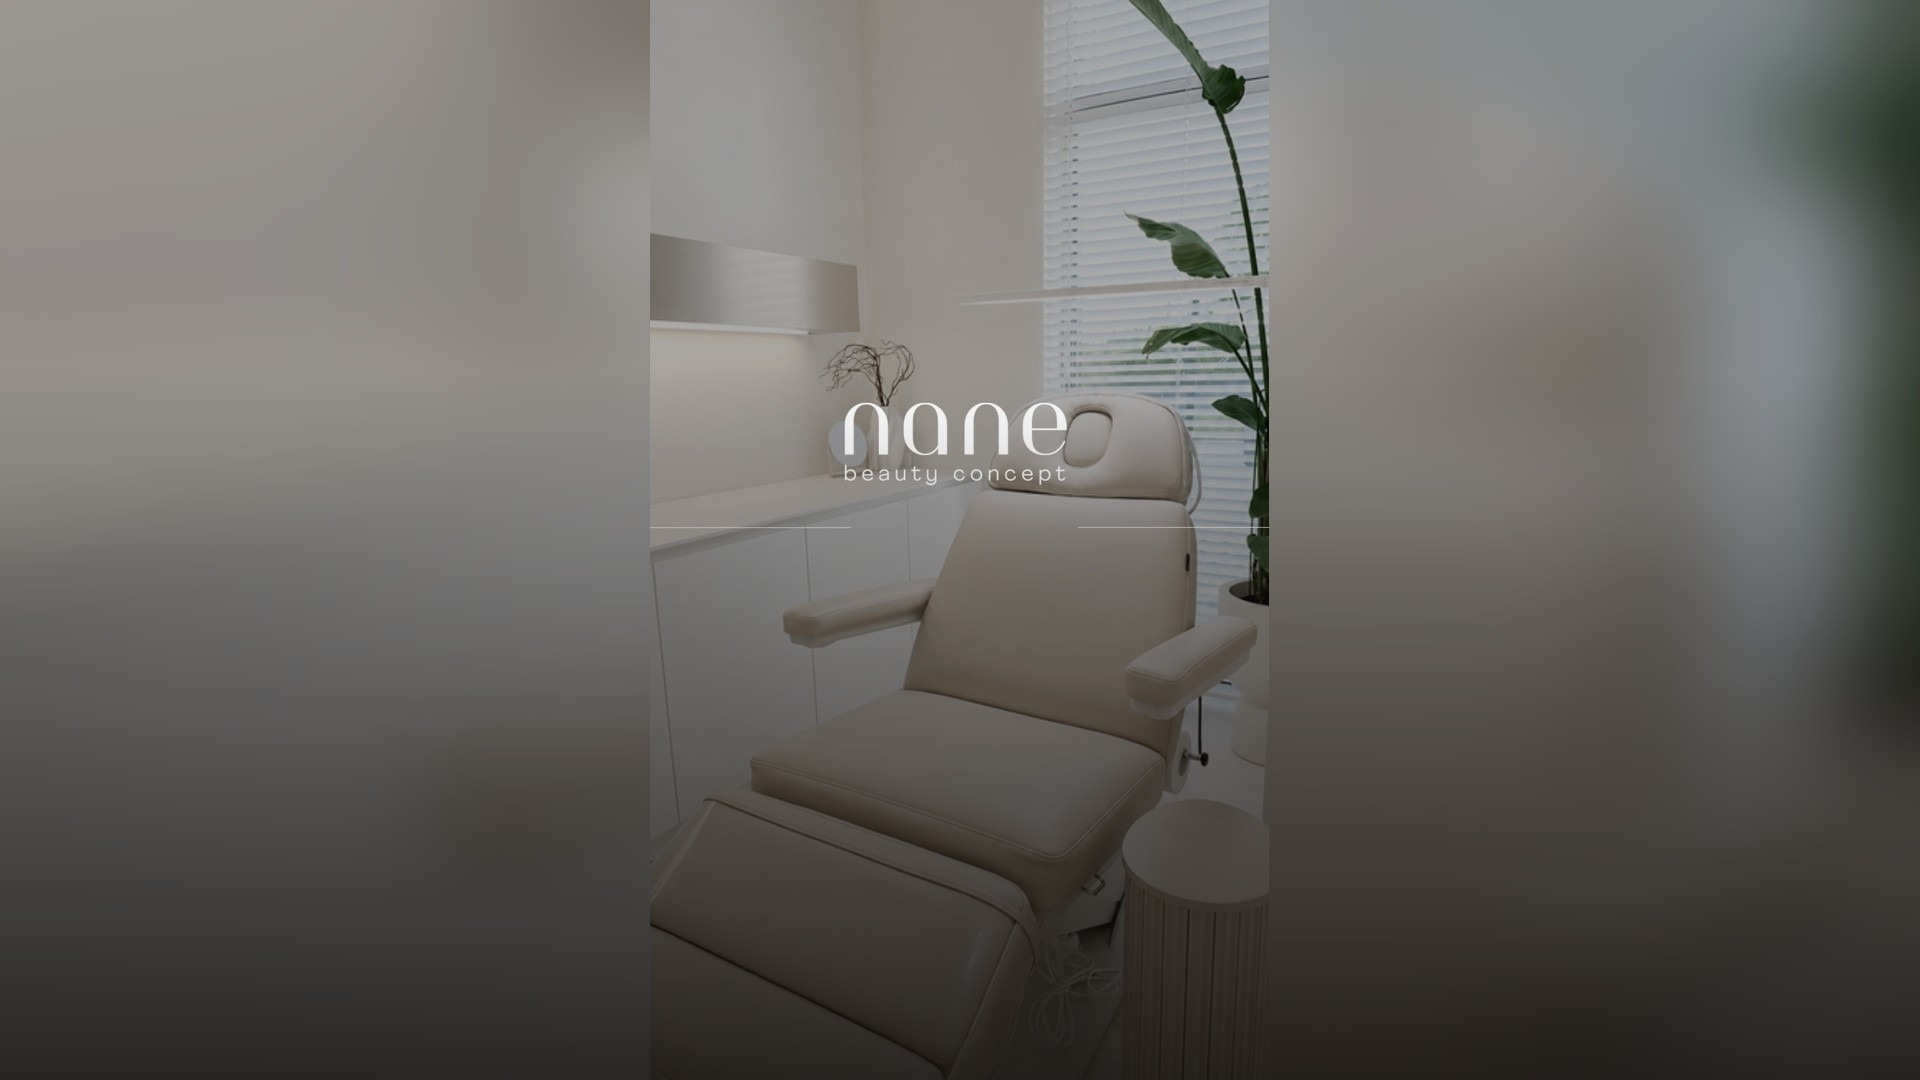
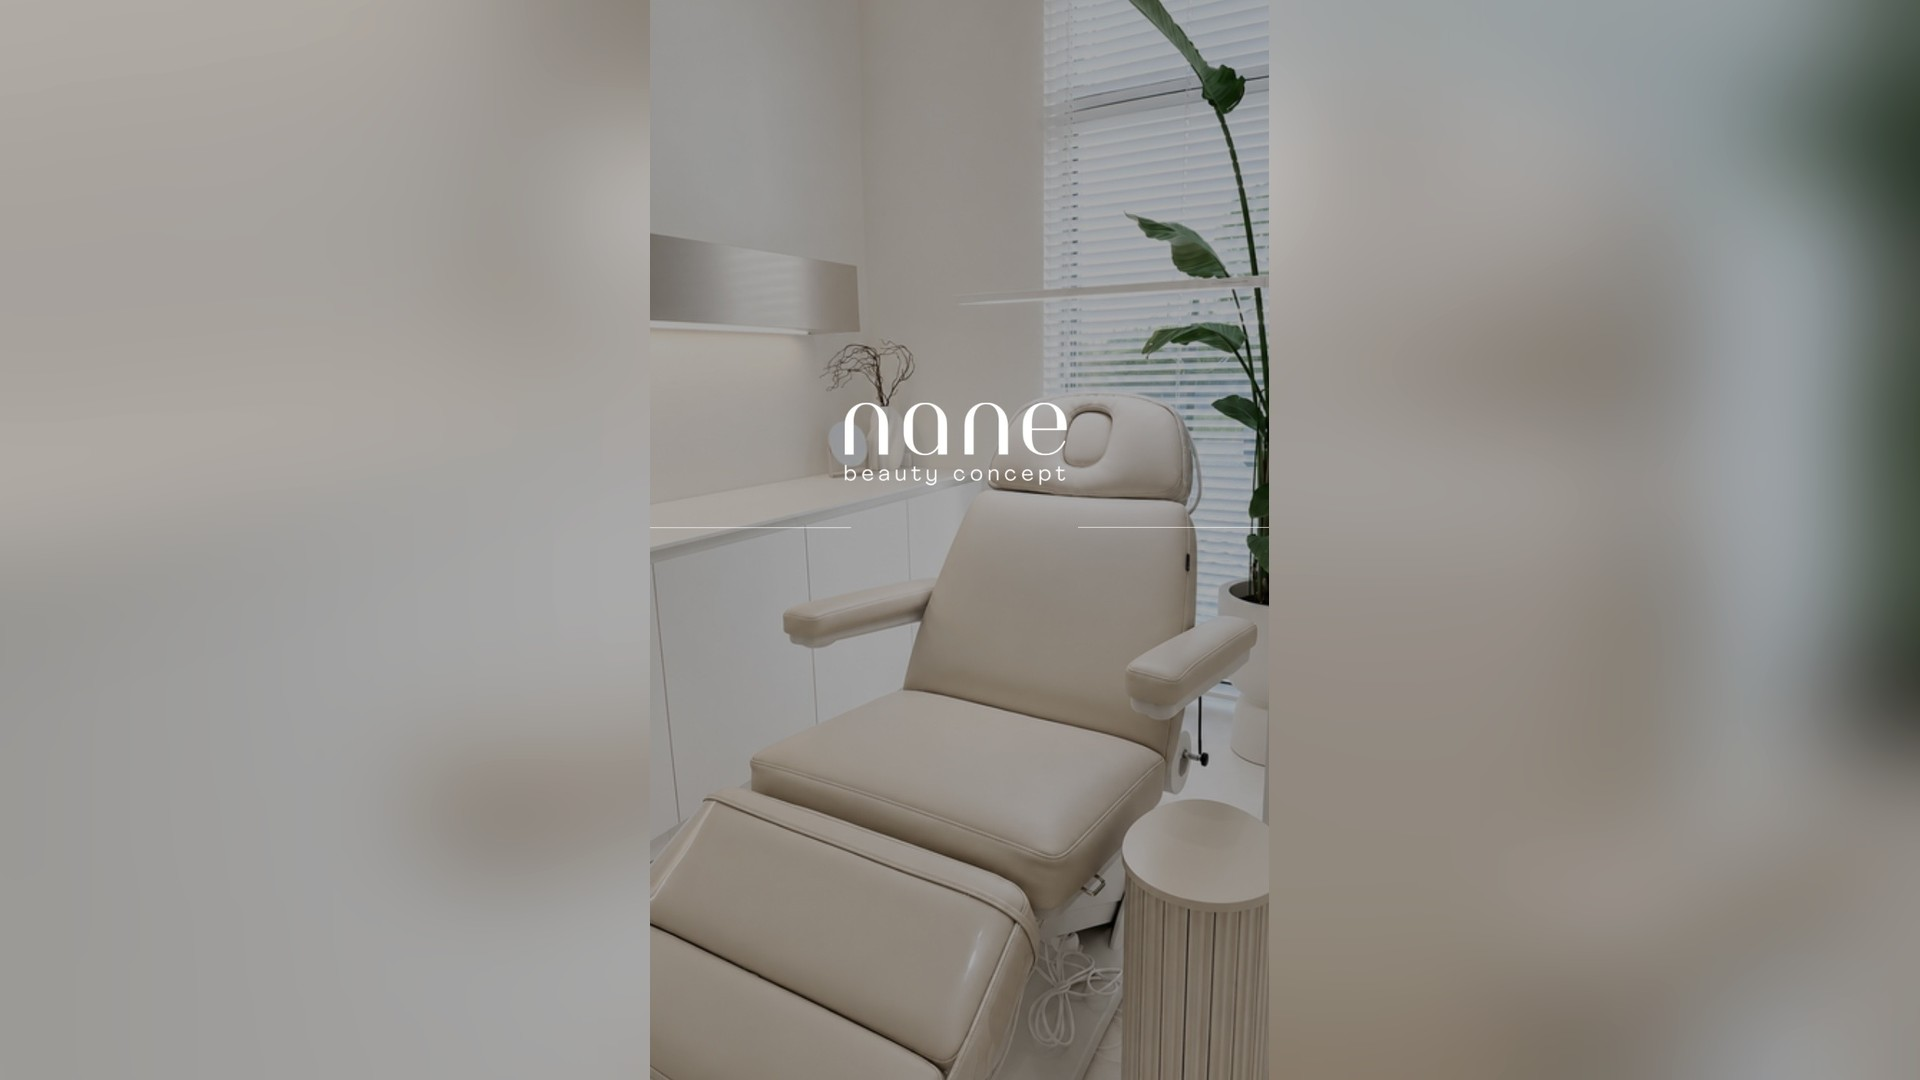
Start: spójniejsze hero + jaśniejsza stopka (biała paleta)
Hero: rozjaśnione, kremowe boki (bez szarej nakładki), ciemny tekst
zamiast białego, złoty kicker i te same przyciski co reszta strony
(ciemny + outline), delikatne przejście dołu w biel. Dzięki temu hero
pasuje do jasnej reszty zamiast wyglądać moody/ciemno.

Stopka: z ciemnego brązu na ciepły kremowy (#f7f2ec) z ciemnym tekstem,
ciemnym logo, złotymi akcentami i górną linią — spójna z białą stroną.

diff --git a/public/index.html b/public/index.html
@@ -44,11 +44,11 @@
   @media(min-width:821px){ .hero-content{ padding-bottom:clamp(120px,18vh,185px); } }
   /* Footer */
   .footer-nav-btn{ transition:color .18s; }
-  .footer-nav-btn:hover{ color:#f3ece6 !important; }
+  .footer-nav-btn:hover{ color:#b88a5e !important; }
   .footer-link{ transition:color .18s; }
-  .footer-link:hover{ color:#e7c98f !important; }
+  .footer-link:hover{ color:#b88a5e !important; }
   .social-link{ transition:color .18s; cursor:pointer; }
-  .social-link:hover{ color:#e7c98f !important; }
+  .social-link:hover{ color:#b88a5e !important; }
   /* before/after slider */
   .ba{ --pos:50%; margin:16px 0 8px; }
   .ba-frame{ position:relative; width:100%; margin:0 auto; border-radius:14px; overflow:hidden; cursor:ew-resize; user-select:none; touch-action:none; box-shadow:0 18px 40px -26px rgba(120,80,55,.5); }
@@ -130,12 +130,13 @@
     <!-- hero -->
     <div style="position:relative; min-height:clamp(540px,80vh,800px); display:flex; align-items:flex-end; justify-content:center; overflow:hidden;">
       <img src="images/hero1-wide.jpeg" alt="nane beauty concept — wnętrze gabinetu" style="position:absolute; inset:0; width:100%; height:100%; object-fit:cover; object-position:center 50%;">
-      <div style="position:absolute; inset:0; background:linear-gradient(180deg, rgba(28,24,21,.20) 0%, rgba(28,24,21,.06) 36%, rgba(28,24,21,.22) 72%, rgba(28,24,21,.40) 100%);"></div>
+      <div style="position:absolute; inset:0; background:linear-gradient(180deg, rgba(255,255,255,0) 50%, rgba(255,252,249,.34) 78%, rgba(255,255,255,.72) 100%);"></div>
       <div data-reveal class="hero-content" style="position:relative; z-index:2; text-align:center; max-width:580px;">
-        <p style="max-width:480px; margin:0 auto 32px; font-size:16px; line-height:1.8; color:#f3ece6; text-shadow:0 1px 14px rgba(20,16,14,.45);">Nowoczesne zabiegi na twarz i ciało — od liftingu Morpheus8 po modelowanie Icoone Laser Body. W kameralnym wnętrzu, z pełną dbałością o Twój komfort i naturalny efekt.</p>
+        <div style="font-size:12px; letter-spacing:.3em; text-transform:uppercase; color:#b88a5e; margin-bottom:18px; text-shadow:0 1px 10px rgba(255,255,255,.6);">Kosmetologia estetyczna · Rawicz</div>
+        <p style="max-width:480px; margin:0 auto 32px; font-size:16px; line-height:1.8; color:#4a423b; text-shadow:0 1px 10px rgba(255,255,255,.65);">Nowoczesne zabiegi na twarz i ciało — od liftingu Morpheus8 po modelowanie Icoone Laser Body. W kameralnym wnętrzu, z pełną dbałością o Twój komfort i naturalny efekt.</p>
         <div style="display:flex; gap:14px; flex-wrap:wrap; justify-content:center;">
-          <a href="https://booksy.com/pl-pl/280551_nane-beauty-concept_salon-kosmetyczny_17342_rawicz" target="_blank" rel="noopener" class="btn-hero-light" style="text-decoration:none; display:inline-flex; align-items:center; height:52px; padding:0 30px; border-radius:999px; background:#f3ece6; color:#2a2421; font-size:14px; letter-spacing:.06em;">Rezerwacja Booksy</a>
-          <button class="reset-btn btn-hero-outline" data-nav="zabiegi" style="display:inline-flex; align-items:center; height:52px; padding:0 30px; border-radius:999px; background:transparent; color:#f3ece6; border:1px solid rgba(243,236,230,.55); font-size:14px; letter-spacing:.06em;">Zobacz zabiegi</button>
+          <a href="https://booksy.com/pl-pl/280551_nane-beauty-concept_salon-kosmetyczny_17342_rawicz" target="_blank" rel="noopener" class="btn-dark" style="text-decoration:none; display:inline-flex; align-items:center; height:52px; padding:0 30px; border-radius:999px; background:#2a2421; color:#f3ece6; font-size:14px; letter-spacing:.06em;">Rezerwacja Booksy</a>
+          <button class="reset-btn btn-outline" data-nav="zabiegi" style="display:inline-flex; align-items:center; height:52px; padding:0 30px; border-radius:999px; background:rgba(255,255,255,.55); color:#2a2421; border:1px solid #d8cabb; font-size:14px; letter-spacing:.06em;">Zobacz zabiegi</button>
         </div>
       </div>
     </div>
@@ -738,29 +739,29 @@
   </div>
 
   <!-- ===================== FOOTER ===================== -->
-  <div style="background:#2a2421; color:#cbbfb5;">
+  <div style="background:#f7f2ec; color:#6f655e; border-top:1px solid #efe6dd;">
     <div style="max-width:1180px; margin:0 auto; padding:clamp(40px,5vw,60px) clamp(18px,4vw,40px) clamp(24px,3vw,34px);">
-      <div style="display:grid; grid-template-columns:1.4fr 1fr 1fr; gap:clamp(24px,4vw,48px); padding-bottom:32px; border-bottom:1px solid #463a33;">
+      <div style="display:grid; grid-template-columns:1.4fr 1fr 1fr; gap:clamp(24px,4vw,48px); padding-bottom:32px; border-bottom:1px solid #efe6dd;">
         <div>
-          <div style="margin-bottom:14px;"><img src="images/logo.png" alt="nane beauty concept" style="height:64px; width:auto; display:block; object-fit:contain; filter:invert(1);"></div>
-          <p style="max-width:300px; font-size:14px; line-height:1.7; color:#a89c92; margin:0;">Gabinet kosmetologii estetycznej w Rawiczu. Nowoczesne zabiegi twarzy i ciała z naturalnym efektem.</p>
+          <div style="margin-bottom:14px;"><img src="images/logo.png" alt="nane beauty concept" style="height:64px; width:auto; display:block; object-fit:contain;"></div>
+          <p style="max-width:300px; font-size:14px; line-height:1.7; color:#6f655e; margin:0;">Gabinet kosmetologii estetycznej w Rawiczu. Nowoczesne zabiegi twarzy i ciała z naturalnym efektem.</p>
         </div>
         <div>
           <div style="font-size:12px; letter-spacing:.1em; text-transform:uppercase; color:#8a7d72; margin-bottom:14px;">Nawigacja</div>
           <div style="display:flex; flex-direction:column; gap:10px; font-size:14px; align-items:flex-start;">
-            <button class="reset-btn footer-nav-btn" data-nav="home" style="text-align:left; color:#cbbfb5; font-size:14px;">Start</button>
-            <button class="reset-btn footer-nav-btn" data-nav="zabiegi" style="text-align:left; color:#cbbfb5; font-size:14px;">Zabiegi</button>
-            <button class="reset-btn footer-nav-btn" data-nav="onas" style="text-align:left; color:#cbbfb5; font-size:14px;">O nas</button>
-            <button class="reset-btn footer-nav-btn" data-nav="kontakt" style="text-align:left; color:#cbbfb5; font-size:14px;">Kontakt</button>
+            <button class="reset-btn footer-nav-btn" data-nav="home" style="text-align:left; color:#2a2421; font-size:14px;">Start</button>
+            <button class="reset-btn footer-nav-btn" data-nav="zabiegi" style="text-align:left; color:#2a2421; font-size:14px;">Zabiegi</button>
+            <button class="reset-btn footer-nav-btn" data-nav="onas" style="text-align:left; color:#2a2421; font-size:14px;">O nas</button>
+            <button class="reset-btn footer-nav-btn" data-nav="kontakt" style="text-align:left; color:#2a2421; font-size:14px;">Kontakt</button>
           </div>
         </div>
         <div>
           <div style="font-size:12px; letter-spacing:.1em; text-transform:uppercase; color:#8a7d72; margin-bottom:14px;">Kontakt</div>
-          <div style="display:flex; flex-direction:column; gap:10px; font-size:14px; color:#a89c92;">
-            <a href="https://maps.app.goo.gl/Rtr7VHYGZQqd7jMB8" target="_blank" rel="noopener" class="footer-link" style="color:#a89c92; text-decoration:none;">NANE BEAUTY CONCEPT, Rawicz</a>
-            <a href="tel:+48512899699" class="footer-link" style="color:#a89c92; text-decoration:none;">+48 512 899 699</a>
+          <div style="display:flex; flex-direction:column; gap:10px; font-size:14px; color:#6f655e;">
+            <a href="https://maps.app.goo.gl/Rtr7VHYGZQqd7jMB8" target="_blank" rel="noopener" class="footer-link" style="color:#6f655e; text-decoration:none;">NANE BEAUTY CONCEPT, Rawicz</a>
+            <a href="tel:+48512899699" class="footer-link" style="color:#6f655e; text-decoration:none;">+48 512 899 699</a>
             <span>Pon–Pt 9–17 · Sob 9–14</span>
-            <a href="https://booksy.com/pl-pl/280551_nane-beauty-concept_salon-kosmetyczny_17342_rawicz" target="_blank" rel="noopener" class="footer-link" style="color:#e7c98f; text-decoration:none;">Rezerwacja Booksy →</a>
+            <a href="https://booksy.com/pl-pl/280551_nane-beauty-concept_salon-kosmetyczny_17342_rawicz" target="_blank" rel="noopener" class="footer-link" style="color:#b88a5e; text-decoration:none;">Rezerwacja Booksy →</a>
           </div>
         </div>
       </div>
